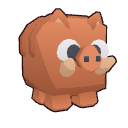
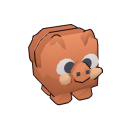
Wardrobe pictures rendered with the game shader; pet in the public room list
- asset-studio.js (?debug) + qa/render-assets.mjs: 24 pet thumbnails and 3 slipper pictures
  drawn with the game's toon materials, lights and outlines; Blender deps/*.jpg removed
- public room list shows the host's pet, as decided
- qa/ribbon-fit.mjs: every pet name fits the card ribbon at full size in all languages

diff --git a/proto/src/asset-studio.js b/proto/src/asset-studio.js
@@ -1,0 +1,57 @@
+import * as THREE from 'three';
+import { loadPet, preparePet } from './stencil-card.js';
+import { depModelFor } from './deps.js';
+
+// Debug-only (?debug): renders the wardrobe pictures with the game's own materials, lights and
+// outlines, on a transparent background. qa/render-assets.mjs saves them to public/.
+export async function renderAssets({ pets = [], deps = [], size = 128 } = {}) {
+  const canvas = document.createElement('canvas');
+  const renderer = new THREE.WebGLRenderer({ canvas, antialias: true, alpha: true, preserveDrawingBuffer: true });
+  renderer.setPixelRatio(1);
+  renderer.setSize(size * 2, size * 2, false); // drawn at 2x, scaled down below for clean lines
+  renderer.setClearColor(0x000000, 0);
+  const scene = new THREE.Scene();
+  scene.add(new THREE.HemisphereLight(0xffffff, 0xd9c3a0, 1.6));
+  const sun = new THREE.DirectionalLight(0xffffff, 1.6);
+  sun.position.set(-4, 12, 6);
+  scene.add(sun);
+  const camera = new THREE.PerspectiveCamera(26, 1, 0.05, 50);
+  const holder = new THREE.Group();
+  scene.add(holder);
+  const out = document.createElement('canvas');
+  out.width = out.height = size;
+  const g = out.getContext('2d');
+  const box = new THREE.Box3();
+  const shoot = (obj, from) => {
+    holder.clear();
+    holder.add(obj);
+    holder.updateMatrixWorld(true);
+    box.setFromObject(obj, true);
+    const c = box.getCenter(new THREE.Vector3());
+    const r = box.getSize(new THREE.Vector3()).length() / 2;
+    const dist = r / Math.sin(THREE.MathUtils.degToRad(camera.fov / 2)) * 0.98;
+    camera.position.copy(c).addScaledVector(from.clone().normalize(), dist);
+    camera.lookAt(c);
+    renderer.render(scene, camera);
+    g.clearRect(0, 0, size, size);
+    g.drawImage(canvas, 0, 0, size, size);
+    return out.toDataURL('image/png');
+  };
+  const result = {};
+  for (const id of pets) {
+    const pet = preparePet(id, await loadPet(id), 0, 1);
+    pet.root.traverse((o) => { if (o.material) o.material.stencilWrite = false; });
+    pet.mixer.update(0.4);
+    pet.root.rotation.y = 0.45;
+    result[`pet-${id}`] = shoot(pet.root, new THREE.Vector3(0, 0.35, 1));
+  }
+  for (const [kind, colors] of deps) {
+    const model = depModelFor(kind, colors);
+    if (!model) continue;
+    const m = model.clone();
+    m.rotation.set(0, -0.6, 0);
+    result[`dep-${kind}`] = shoot(m, new THREE.Vector3(0.2, 1.1, 0.9));
+  }
+  renderer.dispose();
+  return result;
+}

diff --git a/proto/src/main.js b/proto/src/main.js
@@ -958,7 +958,7 @@ function fillRoomList() {
       const open = r.phase === 'lobby' && r.n < r.cap;
       const slots = Array.from({ length: r.cap }, (_, i) => `<b class="${i < r.n ? 'full' : ''}"></b>`).join('');
       return `<div class="room-row${open ? '' : ' off'}">
-        <img class="room-av" src="deps/${r.dep ?? 'dep_lao'}.jpg" alt="">
+        <img class="room-av" src="${petThumb(r.pet ?? 'cat')}" alt="">
         <span class="room-name">${t('rooms.room', { code: escapeHtml(r.code) })}
           <small>${t('rooms.count', { n: r.n, cap: r.cap })} <span class="tag ${open ? 'ok' : 'busy'}">${t(open ? 'rooms.waiting' : 'rooms.playing')}</span></small></span>
         <span class="room-slots" aria-hidden="true">${slots}</span>
@@ -1674,6 +1674,7 @@ if (new URLSearchParams(location.search).has('debug')) {
   window.slamDebug = {
     get state() { return state; },
     world,
+    renderAssets: (opts) => import('./asset-studio.js').then((m) => m.renderAssets(opts)),
     meme: showMeme,
     visuals,
     set timeScale(v) { timeScale = v; },

diff --git a/proto/src/style.css b/proto/src/style.css
@@ -254,7 +254,7 @@ button{font:inherit;color:inherit;cursor:pointer}
 .room-list{display:flex;flex-direction:column;gap:8px;width:100%;min-height:80px;align-items:stretch}
 .room-row{display:grid;grid-template-columns:48px minmax(0,1fr) auto 84px;gap:10px;align-items:center;background:var(--cream);border:3px solid var(--ink);border-radius:14px;padding:6px 10px;text-align:left}
 .room-row.off{opacity:.55}
-.room-av{width:46px;height:46px;border-radius:10px;border:2px solid var(--ink);object-fit:cover;background:#fff}
+.room-av{width:46px;height:46px;border-radius:10px;border:2px solid var(--ink);object-fit:contain;background:var(--cream)}
 .room-name{font-weight:800;font-size:17px;line-height:1.1;min-width:0}
 .room-name small{display:flex;gap:6px;align-items:center;font-weight:700;font-size:12px;color:var(--muted);margin-top:2px;flex-wrap:wrap}
 .tag{display:inline-flex;align-items:center;font-size:12px;font-weight:800;border:2px solid var(--ink);border-radius:999px;padding:0 8px;background:var(--cream);color:var(--ink);line-height:18px}

diff --git a/proto/src/wardrobe.js b/proto/src/wardrobe.js
@@ -158,7 +158,7 @@ export function gearTiles(look) {
   const dots = look.depColors.map((c) => `<i style="background:${c}"></i>`).join('');
   return `<div class="gear-tiles">
     <button type="button" class="gear-tile" data-ward="pet"><img src="${petThumb(look.pet)}" alt="">${esc(t(`pet.${look.pet}`))}<small>${t('wardrobe.pet')}</small></button>
-    <button type="button" class="gear-tile" data-ward="dep"><img src="deps/${look.dep}.jpg" alt=""><span class="dep-dots">${dots}</span>${esc(t(`dep.${look.dep}`))}<small>${t('wardrobe.dep')}</small></button>
+    <button type="button" class="gear-tile" data-ward="dep"><img src="deps/${look.dep}.png" alt=""><span class="dep-dots">${dots}</span>${esc(t(`dep.${look.dep}`))}<small>${t('wardrobe.dep')}</small></button>
     <button type="button" class="gear-tile" data-ward="card"><span class="card-chip" style="--c:${CARD_COLORS[look.cardColor].color}">${CARD_COLORS[look.cardColor].suit}</span>${esc(t(`color.${look.cardColor}`))}<small>${t('wardrobe.card')}</small></button>
   </div>`;
 }

diff --git a/proto/src/stencil-card.js b/proto/src/stencil-card.js
@@ -251,7 +251,7 @@ function depthMaterial(ref, far) {
 
 const petCache = {};
 const loader = new GLTFLoader();
-const loadPet = (id) => (petCache[id] ??= loader.loadAsync(`pets/animal-${id}.json`));
+export const loadPet = (id) => (petCache[id] ??= loader.loadAsync(`pets/animal-${id}.json`));
 
 // Kenney's cube pets animate each part as its own node: 7 parts = 7 draw calls, 14 with outlines.
 // Rebuilt once per pet kind as ONE skinned mesh: every node becomes a bone and each part's vertices
@@ -300,7 +300,7 @@ function mergePet(id, gltf) {
   return mergedPets[id];
 }
 
-function preparePet(id, gltf, ref, height) {
+export function preparePet(id, gltf, ref, height) {
   const merged = mergePet(id, gltf);
   const root = new THREE.Group();
   const rig = new THREE.Group();
